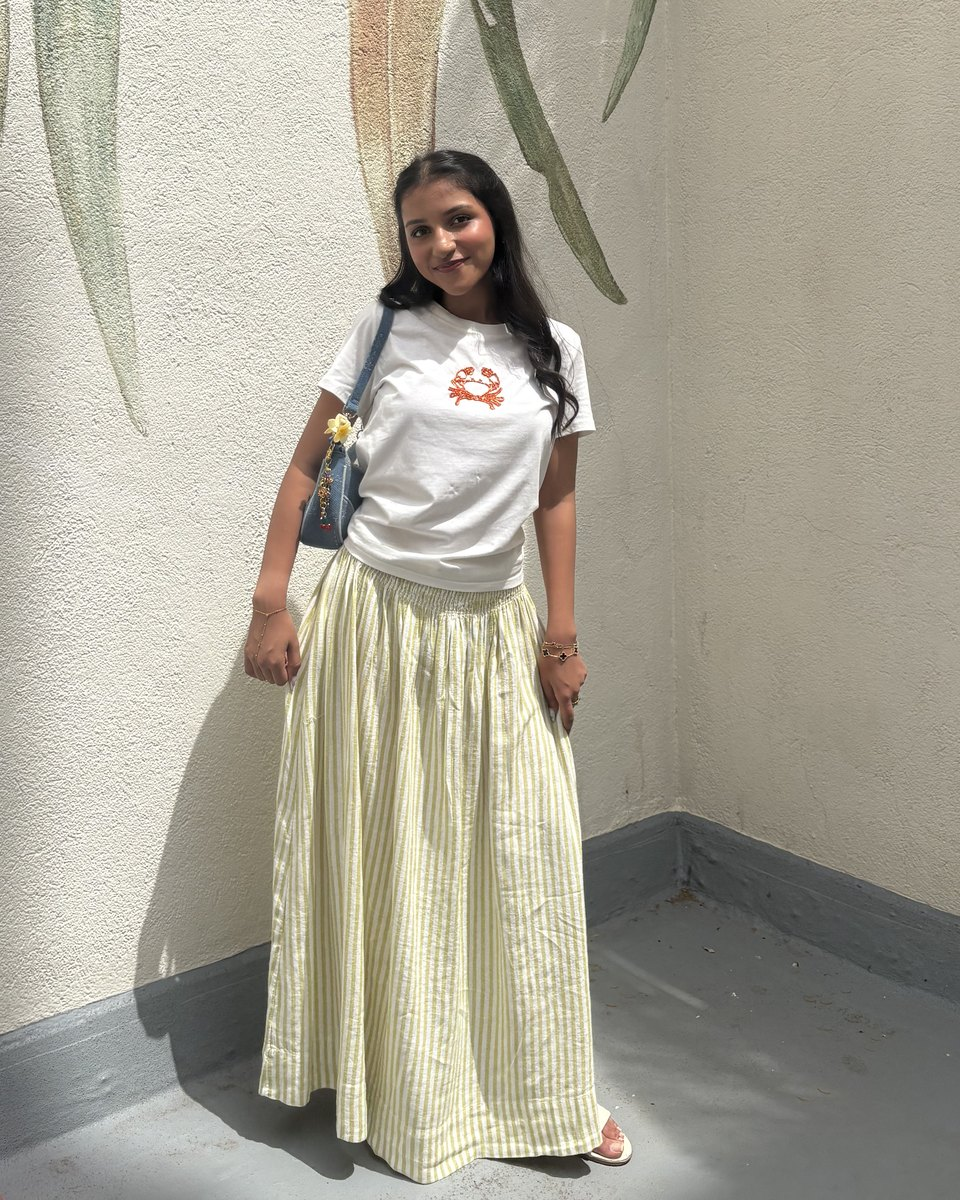
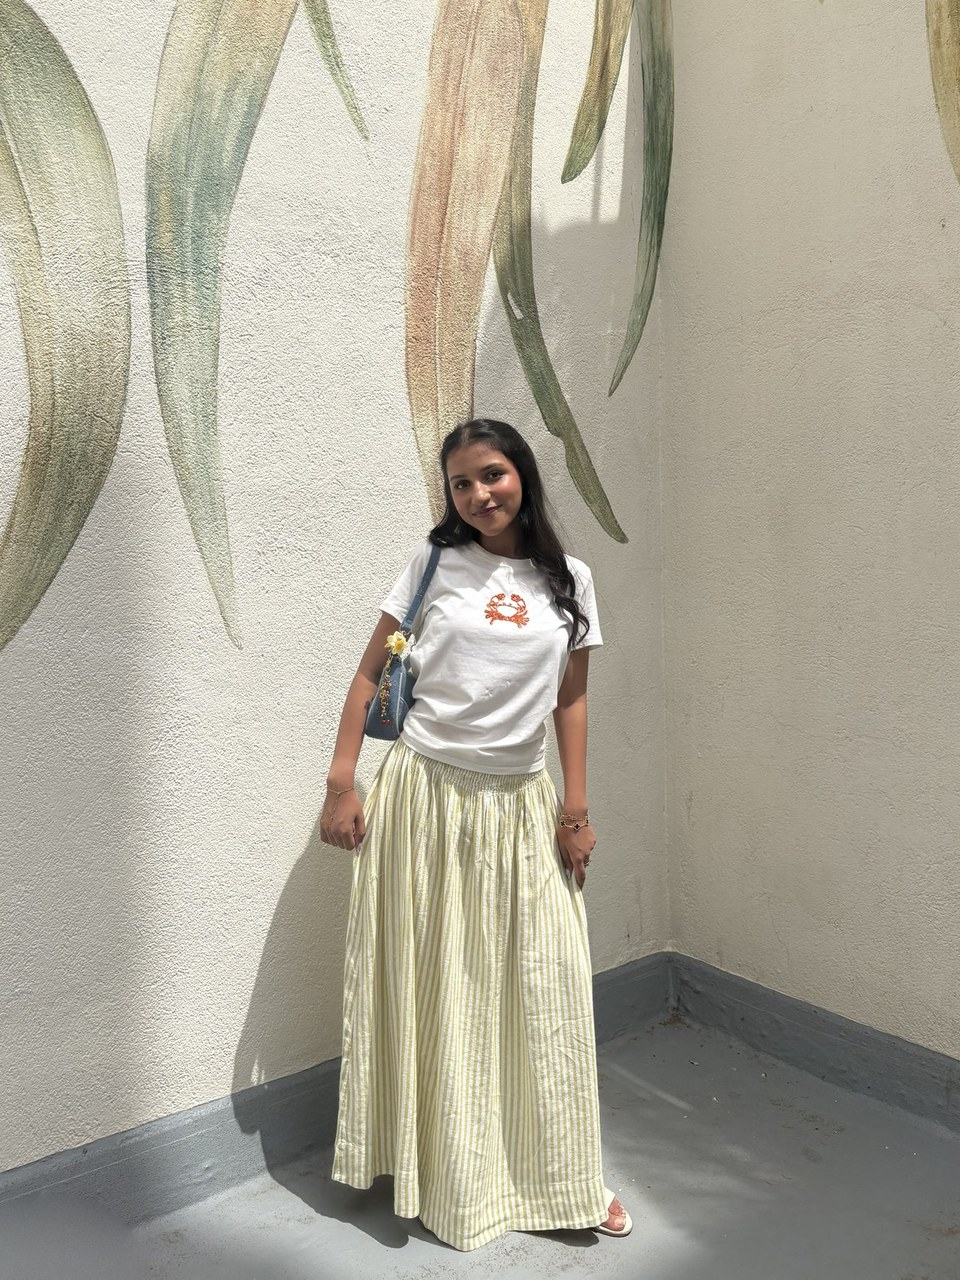
Zoom the about-me photo out
Wider crop of the mural photo (the bag handle in the corner painted
out) and a 3:4 frame to match it.

Claude-Session: https://claude.ai/code/session_019BapeqXTDVMy3j5RTJMNhi

diff --git a/styles.css b/styles.css
@@ -323,7 +323,7 @@ main { position: relative; z-index: 1; padding: 90px 0 40px; }
 .about-photo { position: relative; transform-style: preserve-3d; padding: 9% 9% 14%; }
 .about-clip { position: absolute; inset: 0; width: 100%; height: 100%; object-fit: fill; filter: drop-shadow(0 16px 24px var(--shadow)); }
 .polaroid {
-  position: relative; aspect-ratio: 4 / 5; margin-top: 12%; background: #e9dfd2; border-radius: 3px; overflow: hidden;
+  position: relative; aspect-ratio: 3 / 4; margin-top: 12%; background: #e9dfd2; border-radius: 3px; overflow: hidden;
   display: grid; place-items: center; transform: translateZ(26px) rotate(-2deg);
   box-shadow: inset 0 0 0 8px #fffaf3, 0 8px 18px rgba(0,0,0,0.15);
 }
